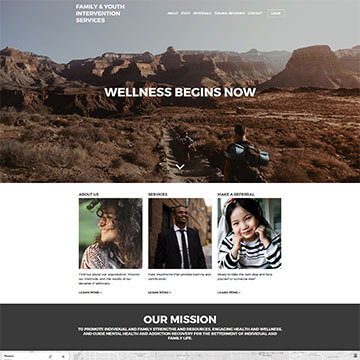
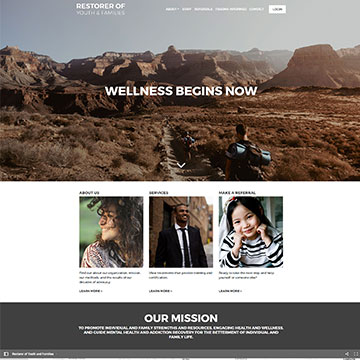
Update images and add new projects

diff --git a/index.html b/index.html
@@ -88,8 +88,10 @@
         <!-- Image Gallery -->
         
         <div class="img-thumbnail">
-            <a href="http://worldofwilshawn.com/park-finder/" target="_blank"><img src="images/park-finder-website.jpg" data-tags="Projects" alt="Park Finder Project" /></a>
-            <a href="http://www.royf4z.com/" target="_blank"><img src="images/fyisaz-website.jpg" data-tags="Websites" alt="Restorer of Youth & Families Design" /></a>
+            <a href="images/tt-logo.jpg" target="_blank" data-lightbox="Tylers-transport" data-title="Tyler's Transport Logo"><img src="images/tt-logo.jpg" data-tags="Logos" alt="Tyler's Transport Logo" /></a>
+            <a href="http://wilshawnalexander.com/grilled-cheese/" target="_blank"><img src="images/grilledcheese-website.jpg" data-tags="Projects" alt="Grilled Cheese Project" /></a>
+            <a href="http://wilshawnalexander.com/park-finder/" target="_blank"><img src="images/park-finder-website.jpg" data-tags="Projects" alt="Park Finder Project" /></a>
+            <a href="http://www.royf4az.com/" target="_blank"><img src="images/fyisaz-website.jpg" data-tags="Websites" alt="Restorer of Youth & Families Design" /></a>
             <a href="http://www.refreshcommunitychurch.com/" target="_blank"><img src="images/refresh-website.jpg" data-tags="Websites" alt="Refresh Community Church Design" /></a>
             <a href="images/portfolio/gl-full.png" data-lightbox="Godlike" data-title="Godlike Logo" ><img src="images/gl-logo.jpg" data-tags="Logos" alt="Team Dean Crest" /></a>
             <a href="images/portfolio/polyshawn-full.png" data-lightbox="Low-Poly-Shawn" data-title="Low Poly Portrait"><img src="images/lowpolyshawn-misc.png" data-tags="Misc." alt="Low Poly Portrait" /></a>
